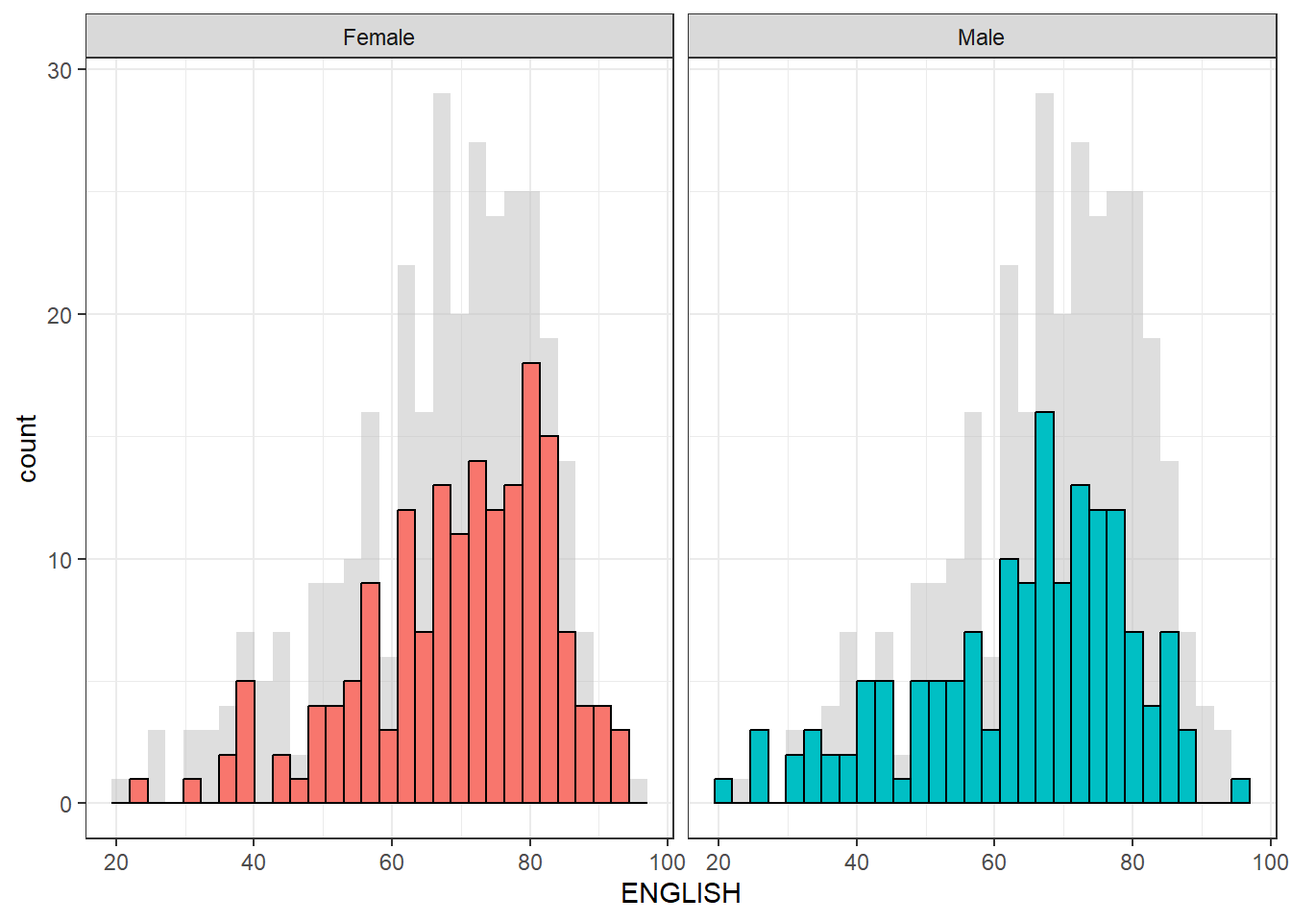
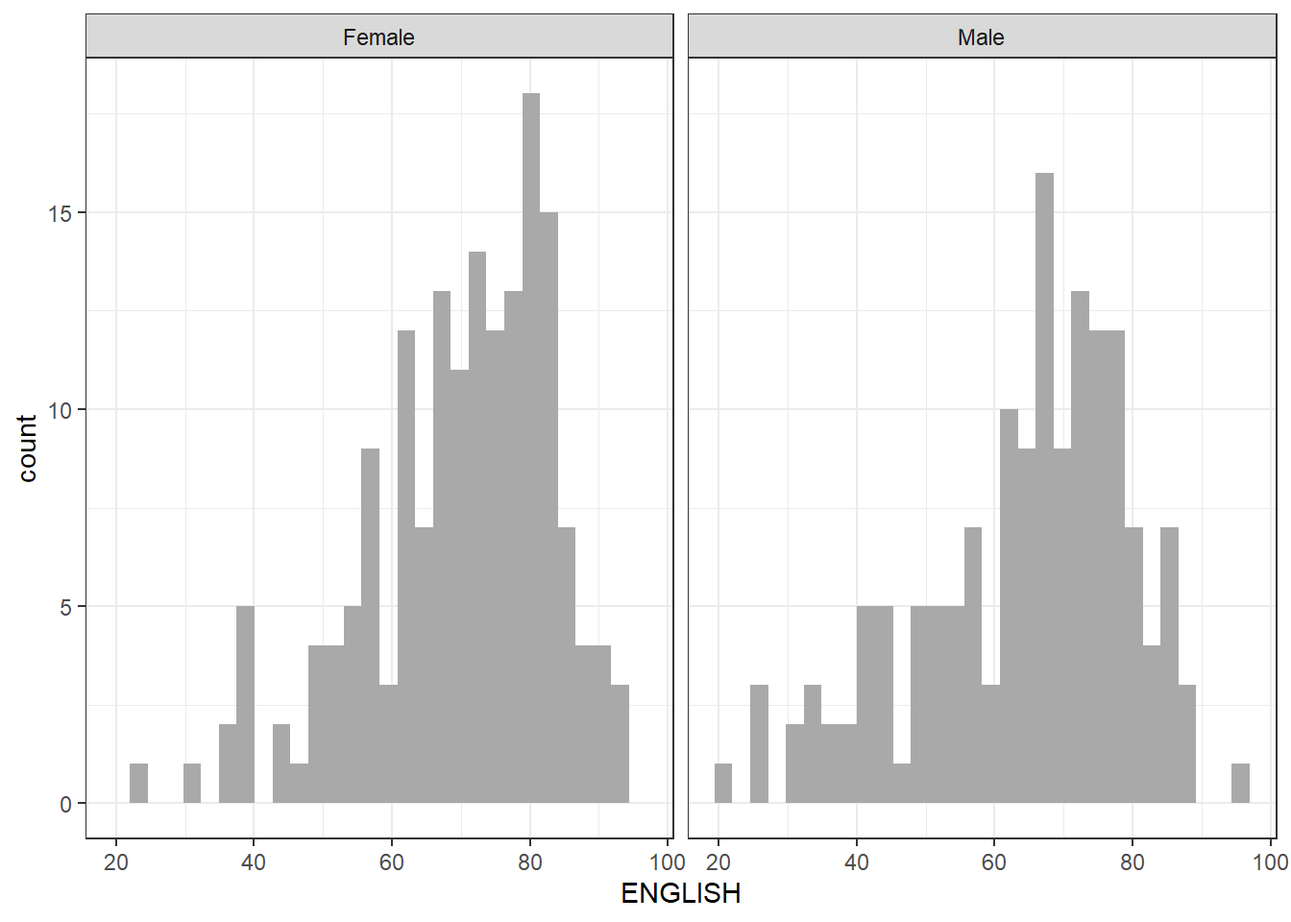
Commit In-class Ex01 completed

diff --git a/_site/In-class_Ex/In-class_Ex01/In-class_Ex01.html b/_site/In-class_Ex/In-class_Ex01/In-class_Ex01.html
@@ -6,6 +6,8 @@
 
 <meta name="viewport" content="width=device-width, initial-scale=1.0, user-scalable=yes">
 
+<meta name="author" content="Shaun Tan">
+<meta name="dcterms.date" content="2023-04-16">
 
 <title>ISSS608-VAA - In-class_Ex01</title>
 <style>
@@ -230,7 +232,19 @@ code span.wa { color: #60a0b0; font-weight: bold; font-style: italic; } /* Warni
 
 <div class="quarto-title-meta">
 
+    <div>
+    <div class="quarto-title-meta-heading">Author</div>
+    <div class="quarto-title-meta-contents">
+             <p>Shaun Tan </p>
+          </div>
+  </div>
     
+    <div>
+    <div class="quarto-title-meta-heading">Published</div>
+    <div class="quarto-title-meta-contents">
+      <p class="date">April 16, 2023</p>
+    </div>
+  </div>
   
     
   </div>
@@ -244,57 +258,41 @@ code span.wa { color: #60a0b0; font-weight: bold; font-style: italic; } /* Warni
 <h2 class="anchored" data-anchor-id="installing-and-launching-r-packages">Installing and launching R packages</h2>
 <p>The code chunk below uses p_load() of pacman package to check if tidyverse packages are installed on the computer. If they are, then they will be launched into R.</p>
 <div class="cell">
+<details>
+<summary>Code</summary>
 <div class="sourceCode cell-code" id="cb1"><pre class="sourceCode r code-with-copy"><code class="sourceCode r"><span id="cb1-1"><a href="#cb1-1" aria-hidden="true" tabindex="-1"></a>pacman<span class="sc">::</span><span class="fu">p_load</span>(tidyverse)</span></code><button title="Copy to Clipboard" class="code-copy-button"><i class="bi"></i></button></pre></div>
+</details>
 </div>
 </section>
 <section id="importing-the-data" class="level2">
 <h2 class="anchored" data-anchor-id="importing-the-data">Importing the data</h2>
 <div class="cell">
+<details>
+<summary>Code</summary>
 <div class="sourceCode cell-code" id="cb2"><pre class="sourceCode r code-with-copy"><code class="sourceCode r"><span id="cb2-1"><a href="#cb2-1" aria-hidden="true" tabindex="-1"></a>exam_data <span class="ot">&lt;-</span> <span class="fu">read_csv</span>(<span class="st">"data/Exam_data.csv"</span>)</span></code><button title="Copy to Clipboard" class="code-copy-button"><i class="bi"></i></button></pre></div>
-<div class="cell-output cell-output-stderr">
-<pre><code>Rows: 322 Columns: 7
-── Column specification ────────────────────────────────────────────────────────
-Delimiter: ","
-chr (4): ID, CLASS, GENDER, RACE
-dbl (3): ENGLISH, MATHS, SCIENCE
-
-ℹ Use `spec()` to retrieve the full column specification for this data.
-ℹ Specify the column types or set `show_col_types = FALSE` to quiet this message.</code></pre>
-</div>
+</details>
 </div>
 </section>
 </section>
 <section id="plotting-a-simple-horizontal-bar-chart" class="level1">
 <h1>Plotting a simple horizontal bar chart</h1>
 <div class="cell">
-<div class="sourceCode cell-code" id="cb4"><pre class="sourceCode r code-with-copy"><code class="sourceCode r"><span id="cb4-1"><a href="#cb4-1" aria-hidden="true" tabindex="-1"></a><span class="fu">ggplot</span>(<span class="at">data =</span> exam_data,</span>
-<span id="cb4-2"><a href="#cb4-2" aria-hidden="true" tabindex="-1"></a>       <span class="fu">aes</span>(<span class="at">x =</span> RACE)) <span class="sc">+</span> </span>
-<span id="cb4-3"><a href="#cb4-3" aria-hidden="true" tabindex="-1"></a>  <span class="fu">geom_bar</span>() <span class="sc">+</span></span>
-<span id="cb4-4"><a href="#cb4-4" aria-hidden="true" tabindex="-1"></a>  <span class="fu">coord_flip</span>() <span class="sc">+</span></span>
-<span id="cb4-5"><a href="#cb4-5" aria-hidden="true" tabindex="-1"></a>  <span class="fu">theme_minimal</span>() <span class="sc">+</span></span>
-<span id="cb4-6"><a href="#cb4-6" aria-hidden="true" tabindex="-1"></a>  <span class="fu">theme</span>(</span>
-<span id="cb4-7"><a href="#cb4-7" aria-hidden="true" tabindex="-1"></a>    <span class="at">panel.background =</span> <span class="fu">element_rect</span>(<span class="at">fill =</span> <span class="st">"lightblue"</span>, <span class="at">colour =</span> <span class="st">"lightblue"</span>, </span>
-<span id="cb4-8"><a href="#cb4-8" aria-hidden="true" tabindex="-1"></a>                                    <span class="at">size =</span> <span class="fl">0.5</span>, <span class="at">linetype =</span> <span class="st">"solid"</span>),</span>
-<span id="cb4-9"><a href="#cb4-9" aria-hidden="true" tabindex="-1"></a>    <span class="at">panel.grid.major =</span> <span class="fu">element_line</span>(<span class="at">size =</span> <span class="fl">0.5</span>, <span class="at">linetype =</span> <span class="st">'solid'</span>, <span class="at">colour =</span> <span class="st">"white"</span>), </span>
-<span id="cb4-10"><a href="#cb4-10" aria-hidden="true" tabindex="-1"></a>    <span class="at">panel.grid.minor =</span> <span class="fu">element_line</span>(<span class="at">size =</span> <span class="fl">0.25</span>, <span class="at">linetype =</span> <span class="st">'solid'</span>, <span class="at">colour =</span> <span class="st">"white"</span>))</span></code><button title="Copy to Clipboard" class="code-copy-button"><i class="bi"></i></button></pre></div>
-<div class="cell-output cell-output-stderr">
-<pre><code>Warning: The `size` argument of `element_rect()` is deprecated as of ggplot2 3.4.0.
-ℹ Please use the `linewidth` argument instead.</code></pre>
-</div>
-<div class="cell-output cell-output-stderr">
-<pre><code>Warning: The `size` argument of `element_line()` is deprecated as of ggplot2 3.4.0.
-ℹ Please use the `linewidth` argument instead.</code></pre>
-</div>
+<details>
+<summary>Code</summary>
+<div class="sourceCode cell-code" id="cb3"><pre class="sourceCode r code-with-copy"><code class="sourceCode r"><span id="cb3-1"><a href="#cb3-1" aria-hidden="true" tabindex="-1"></a><span class="fu">ggplot</span>(<span class="at">data =</span> exam_data,</span>
+<span id="cb3-2"><a href="#cb3-2" aria-hidden="true" tabindex="-1"></a>       <span class="fu">aes</span>(<span class="at">x =</span> RACE)) <span class="sc">+</span> </span>
+<span id="cb3-3"><a href="#cb3-3" aria-hidden="true" tabindex="-1"></a>  <span class="fu">geom_bar</span>() <span class="sc">+</span></span>
+<span id="cb3-4"><a href="#cb3-4" aria-hidden="true" tabindex="-1"></a>  <span class="fu">coord_flip</span>() <span class="sc">+</span></span>
+<span id="cb3-5"><a href="#cb3-5" aria-hidden="true" tabindex="-1"></a>  <span class="fu">theme_minimal</span>() <span class="sc">+</span></span>
+<span id="cb3-6"><a href="#cb3-6" aria-hidden="true" tabindex="-1"></a>  <span class="fu">theme</span>(</span>
+<span id="cb3-7"><a href="#cb3-7" aria-hidden="true" tabindex="-1"></a>    <span class="at">panel.background =</span> <span class="fu">element_rect</span>(<span class="at">fill =</span> <span class="st">"lightblue"</span>, <span class="at">colour =</span> <span class="st">"lightblue"</span>, </span>
+<span id="cb3-8"><a href="#cb3-8" aria-hidden="true" tabindex="-1"></a>                                    <span class="at">size =</span> <span class="fl">0.5</span>, <span class="at">linetype =</span> <span class="st">"solid"</span>),</span>
+<span id="cb3-9"><a href="#cb3-9" aria-hidden="true" tabindex="-1"></a>    <span class="at">panel.grid.major =</span> <span class="fu">element_line</span>(<span class="at">size =</span> <span class="fl">0.5</span>, <span class="at">linetype =</span> <span class="st">'solid'</span>, <span class="at">colour =</span> <span class="st">"white"</span>), </span>
+<span id="cb3-10"><a href="#cb3-10" aria-hidden="true" tabindex="-1"></a>    <span class="at">panel.grid.minor =</span> <span class="fu">element_line</span>(<span class="at">size =</span> <span class="fl">0.25</span>, <span class="at">linetype =</span> <span class="st">'solid'</span>, <span class="at">colour =</span> <span class="st">"white"</span>)) <span class="sc">+</span></span>
+<span id="cb3-11"><a href="#cb3-11" aria-hidden="true" tabindex="-1"></a>  <span class="fu">labs</span>(<span class="at">title =</span> <span class="st">"Horizontal Histogram of Exam Data"</span>)</span></code><button title="Copy to Clipboard" class="code-copy-button"><i class="bi"></i></button></pre></div>
+</details>
 <div class="cell-output-display">
 <p><img src="In-class_Ex01_files/figure-html/unnamed-chunk-3-1.png" class="img-fluid" width="672"></p>
-</div>
-<div class="sourceCode cell-code" id="cb7"><pre class="sourceCode r code-with-copy"><code class="sourceCode r"><span id="cb7-1"><a href="#cb7-1" aria-hidden="true" tabindex="-1"></a>  <span class="fu">labs</span>(<span class="at">title =</span> <span class="st">"Horizontal Histogram of Exam Data"</span>)</span></code><button title="Copy to Clipboard" class="code-copy-button"><i class="bi"></i></button></pre></div>
-<div class="cell-output cell-output-stdout">
-<pre><code>$title
-[1] "Horizontal Histogram of Exam Data"
-
-attr(,"class")
-[1] "labels"</code></pre>
 </div>
 </div>
 </section>
@@ -303,10 +301,13 @@ attr(,"class")
 <section id="the-original-design" class="level2">
 <h2 class="anchored" data-anchor-id="the-original-design">The original design</h2>
 <div class="cell">
-<div class="sourceCode cell-code" id="cb9"><pre class="sourceCode r code-with-copy"><code class="sourceCode r"><span id="cb9-1"><a href="#cb9-1" aria-hidden="true" tabindex="-1"></a><span class="fu">ggplot</span>(<span class="at">data =</span> exam_data,</span>
-<span id="cb9-2"><a href="#cb9-2" aria-hidden="true" tabindex="-1"></a>       <span class="fu">aes</span>(<span class="at">x =</span> RACE)) <span class="sc">+</span> </span>
-<span id="cb9-3"><a href="#cb9-3" aria-hidden="true" tabindex="-1"></a>  <span class="fu">geom_bar</span>() <span class="sc">+</span></span>
-<span id="cb9-4"><a href="#cb9-4" aria-hidden="true" tabindex="-1"></a>  <span class="fu">labs</span>(<span class="at">x =</span> <span class="st">"Race"</span>, <span class="at">y =</span> <span class="st">"Count"</span>, <span class="at">title =</span> <span class="st">"Histogram of Exam Data"</span>)</span></code><button title="Copy to Clipboard" class="code-copy-button"><i class="bi"></i></button></pre></div>
+<details>
+<summary>Code</summary>
+<div class="sourceCode cell-code" id="cb4"><pre class="sourceCode r code-with-copy"><code class="sourceCode r"><span id="cb4-1"><a href="#cb4-1" aria-hidden="true" tabindex="-1"></a><span class="fu">ggplot</span>(<span class="at">data =</span> exam_data,</span>
+<span id="cb4-2"><a href="#cb4-2" aria-hidden="true" tabindex="-1"></a>       <span class="fu">aes</span>(<span class="at">x =</span> RACE)) <span class="sc">+</span> </span>
+<span id="cb4-3"><a href="#cb4-3" aria-hidden="true" tabindex="-1"></a>  <span class="fu">geom_bar</span>() <span class="sc">+</span></span>
+<span id="cb4-4"><a href="#cb4-4" aria-hidden="true" tabindex="-1"></a>  <span class="fu">labs</span>(<span class="at">x =</span> <span class="st">"Race"</span>, <span class="at">y =</span> <span class="st">"Count"</span>, <span class="at">title =</span> <span class="st">"Histogram of Exam Data"</span>)</span></code><button title="Copy to Clipboard" class="code-copy-button"><i class="bi"></i></button></pre></div>
+</details>
 <div class="cell-output-display">
 <p><img src="In-class_Ex01_files/figure-html/unnamed-chunk-4-1.png" class="img-fluid" width="672"></p>
 </div>
@@ -321,22 +322,21 @@ attr(,"class")
 <section id="the-makeover-design" class="level2">
 <h2 class="anchored" data-anchor-id="the-makeover-design">The makeover design</h2>
 <div class="cell">
-<div class="sourceCode cell-code" id="cb10"><pre class="sourceCode r code-with-copy"><code class="sourceCode r"><span id="cb10-1"><a href="#cb10-1" aria-hidden="true" tabindex="-1"></a><span class="fu">ggplot</span>(<span class="at">data =</span> exam_data,</span>
-<span id="cb10-2"><a href="#cb10-2" aria-hidden="true" tabindex="-1"></a>       <span class="fu">aes</span>(<span class="at">x=</span><span class="fu">reorder</span>(RACE,RACE,</span>
-<span id="cb10-3"><a href="#cb10-3" aria-hidden="true" tabindex="-1"></a>                     <span class="cf">function</span>(x)<span class="sc">-</span><span class="fu">length</span>(x)), <span class="at">fill =</span> RACE)) <span class="sc">+</span> </span>
-<span id="cb10-4"><a href="#cb10-4" aria-hidden="true" tabindex="-1"></a>  <span class="fu">geom_bar</span>() <span class="sc">+</span></span>
-<span id="cb10-5"><a href="#cb10-5" aria-hidden="true" tabindex="-1"></a>  <span class="fu">ylim</span>(<span class="dv">0</span>,<span class="dv">220</span>) <span class="sc">+</span></span>
-<span id="cb10-6"><a href="#cb10-6" aria-hidden="true" tabindex="-1"></a>  <span class="fu">geom_text</span>(<span class="at">stat=</span><span class="st">"count"</span>, </span>
-<span id="cb10-7"><a href="#cb10-7" aria-hidden="true" tabindex="-1"></a>      <span class="fu">aes</span>(<span class="at">label=</span><span class="fu">paste0</span>(..count.., <span class="st">", "</span>, </span>
-<span id="cb10-8"><a href="#cb10-8" aria-hidden="true" tabindex="-1"></a>      <span class="fu">round</span>(..count..<span class="sc">/</span><span class="fu">sum</span>(..count..)<span class="sc">*</span><span class="dv">100</span>, <span class="dv">1</span>), <span class="st">"%"</span>)),</span>
-<span id="cb10-9"><a href="#cb10-9" aria-hidden="true" tabindex="-1"></a>      <span class="at">vjust=</span><span class="sc">-</span><span class="dv">1</span>) <span class="sc">+</span></span>
-<span id="cb10-10"><a href="#cb10-10" aria-hidden="true" tabindex="-1"></a>  <span class="fu">labs</span>(<span class="at">x =</span> <span class="st">"Race"</span>, <span class="at">y =</span> <span class="st">"No. of</span><span class="sc">\n</span><span class="st">Pupils"</span>) <span class="sc">+</span></span>
-<span id="cb10-11"><a href="#cb10-11" aria-hidden="true" tabindex="-1"></a>  <span class="fu">theme_grey</span>() <span class="sc">+</span></span>
-<span id="cb10-12"><a href="#cb10-12" aria-hidden="true" tabindex="-1"></a>  <span class="fu">theme</span>(<span class="at">axis.title.y=</span><span class="fu">element_text</span>(<span class="at">angle =</span> <span class="dv">0</span>))</span></code><button title="Copy to Clipboard" class="code-copy-button"><i class="bi"></i></button></pre></div>
-<div class="cell-output cell-output-stderr">
-<pre><code>Warning: The dot-dot notation (`..count..`) was deprecated in ggplot2 3.4.0.
-ℹ Please use `after_stat(count)` instead.</code></pre>
-</div>
+<details>
+<summary>Code</summary>
+<div class="sourceCode cell-code" id="cb5"><pre class="sourceCode r code-with-copy"><code class="sourceCode r"><span id="cb5-1"><a href="#cb5-1" aria-hidden="true" tabindex="-1"></a><span class="fu">ggplot</span>(<span class="at">data =</span> exam_data,</span>
+<span id="cb5-2"><a href="#cb5-2" aria-hidden="true" tabindex="-1"></a>       <span class="fu">aes</span>(<span class="at">x=</span><span class="fu">reorder</span>(RACE,RACE,</span>
+<span id="cb5-3"><a href="#cb5-3" aria-hidden="true" tabindex="-1"></a>                     <span class="cf">function</span>(x)<span class="sc">-</span><span class="fu">length</span>(x)), <span class="at">fill =</span> RACE)) <span class="sc">+</span> </span>
+<span id="cb5-4"><a href="#cb5-4" aria-hidden="true" tabindex="-1"></a>  <span class="fu">geom_bar</span>() <span class="sc">+</span></span>
+<span id="cb5-5"><a href="#cb5-5" aria-hidden="true" tabindex="-1"></a>  <span class="fu">ylim</span>(<span class="dv">0</span>,<span class="dv">220</span>) <span class="sc">+</span></span>
+<span id="cb5-6"><a href="#cb5-6" aria-hidden="true" tabindex="-1"></a>  <span class="fu">geom_text</span>(<span class="at">stat=</span><span class="st">"count"</span>, </span>
+<span id="cb5-7"><a href="#cb5-7" aria-hidden="true" tabindex="-1"></a>      <span class="fu">aes</span>(<span class="at">label=</span><span class="fu">paste0</span>(..count.., <span class="st">", "</span>, </span>
+<span id="cb5-8"><a href="#cb5-8" aria-hidden="true" tabindex="-1"></a>      <span class="fu">round</span>(..count..<span class="sc">/</span><span class="fu">sum</span>(..count..)<span class="sc">*</span><span class="dv">100</span>, <span class="dv">1</span>), <span class="st">"%"</span>)),</span>
+<span id="cb5-9"><a href="#cb5-9" aria-hidden="true" tabindex="-1"></a>      <span class="at">vjust=</span><span class="sc">-</span><span class="dv">1</span>) <span class="sc">+</span></span>
+<span id="cb5-10"><a href="#cb5-10" aria-hidden="true" tabindex="-1"></a>  <span class="fu">labs</span>(<span class="at">x =</span> <span class="st">"Race"</span>, <span class="at">y =</span> <span class="st">"No. of</span><span class="sc">\n</span><span class="st">Pupils"</span>) <span class="sc">+</span></span>
+<span id="cb5-11"><a href="#cb5-11" aria-hidden="true" tabindex="-1"></a>  <span class="fu">theme_grey</span>() <span class="sc">+</span></span>
+<span id="cb5-12"><a href="#cb5-12" aria-hidden="true" tabindex="-1"></a>  <span class="fu">theme</span>(<span class="at">axis.title.y=</span><span class="fu">element_text</span>(<span class="at">angle =</span> <span class="dv">0</span>))</span></code><button title="Copy to Clipboard" class="code-copy-button"><i class="bi"></i></button></pre></div>
+</details>
 <div class="cell-output-display">
 <p><img src="In-class_Ex01_files/figure-html/unnamed-chunk-5-1.png" class="img-fluid" width="672"></p>
 </div>
@@ -348,11 +348,14 @@ attr(,"class")
 <section id="the-original-design-1" class="level2">
 <h2 class="anchored" data-anchor-id="the-original-design-1">The original design</h2>
 <div class="cell">
-<div class="sourceCode cell-code" id="cb12"><pre class="sourceCode r code-with-copy"><code class="sourceCode r"><span id="cb12-1"><a href="#cb12-1" aria-hidden="true" tabindex="-1"></a><span class="fu">ggplot</span>(<span class="at">data =</span> exam_data,</span>
-<span id="cb12-2"><a href="#cb12-2" aria-hidden="true" tabindex="-1"></a>       <span class="fu">aes</span>(<span class="at">x =</span> MATHS)) <span class="sc">+</span> </span>
-<span id="cb12-3"><a href="#cb12-3" aria-hidden="true" tabindex="-1"></a>  <span class="fu">geom_histogram</span>(<span class="at">col =</span> <span class="st">"#1b98e0"</span>,</span>
-<span id="cb12-4"><a href="#cb12-4" aria-hidden="true" tabindex="-1"></a>                 <span class="at">bins=</span><span class="dv">20</span>) <span class="sc">+</span></span>
-<span id="cb12-5"><a href="#cb12-5" aria-hidden="true" tabindex="-1"></a>  <span class="fu">ylim</span>(<span class="dv">0</span>,<span class="dv">45</span>)</span></code><button title="Copy to Clipboard" class="code-copy-button"><i class="bi"></i></button></pre></div>
+<details>
+<summary>Code</summary>
+<div class="sourceCode cell-code" id="cb6"><pre class="sourceCode r code-with-copy"><code class="sourceCode r"><span id="cb6-1"><a href="#cb6-1" aria-hidden="true" tabindex="-1"></a><span class="fu">ggplot</span>(<span class="at">data =</span> exam_data,</span>
+<span id="cb6-2"><a href="#cb6-2" aria-hidden="true" tabindex="-1"></a>       <span class="fu">aes</span>(<span class="at">x =</span> MATHS)) <span class="sc">+</span> </span>
+<span id="cb6-3"><a href="#cb6-3" aria-hidden="true" tabindex="-1"></a>  <span class="fu">geom_histogram</span>(<span class="at">col =</span> <span class="st">"#1b98e0"</span>,</span>
+<span id="cb6-4"><a href="#cb6-4" aria-hidden="true" tabindex="-1"></a>                 <span class="at">bins=</span><span class="dv">20</span>) <span class="sc">+</span></span>
+<span id="cb6-5"><a href="#cb6-5" aria-hidden="true" tabindex="-1"></a>  <span class="fu">ylim</span>(<span class="dv">0</span>,<span class="dv">45</span>)</span></code><button title="Copy to Clipboard" class="code-copy-button"><i class="bi"></i></button></pre></div>
+</details>
 <div class="cell-output-display">
 <p><img src="In-class_Ex01_files/figure-html/unnamed-chunk-6-1.png" class="img-fluid" width="672"></p>
 </div>
@@ -361,27 +364,30 @@ attr(,"class")
 <section id="the-makeover-design-1" class="level2">
 <h2 class="anchored" data-anchor-id="the-makeover-design-1">The makeover design</h2>
 <div class="cell">
-<div class="sourceCode cell-code" id="cb13"><pre class="sourceCode r code-with-copy"><code class="sourceCode r"><span id="cb13-1"><a href="#cb13-1" aria-hidden="true" tabindex="-1"></a><span class="fu">ggplot</span>(<span class="at">data=</span>exam_data, </span>
-<span id="cb13-2"><a href="#cb13-2" aria-hidden="true" tabindex="-1"></a>       <span class="fu">aes</span>(<span class="at">x=</span> MATHS)) <span class="sc">+</span></span>
-<span id="cb13-3"><a href="#cb13-3" aria-hidden="true" tabindex="-1"></a>  <span class="fu">geom_histogram</span>(<span class="at">bins=</span><span class="dv">20</span>, </span>
-<span id="cb13-4"><a href="#cb13-4" aria-hidden="true" tabindex="-1"></a>                 <span class="at">color=</span><span class="st">"black"</span>, </span>
-<span id="cb13-5"><a href="#cb13-5" aria-hidden="true" tabindex="-1"></a>                 <span class="at">fill=</span><span class="st">"light blue"</span>) <span class="sc">+</span></span>
-<span id="cb13-6"><a href="#cb13-6" aria-hidden="true" tabindex="-1"></a>  <span class="fu">geom_vline</span>(<span class="fu">aes</span>(<span class="at">xintercept=</span><span class="fu">mean</span>(MATHS, <span class="at">na.rm=</span>T)),</span>
-<span id="cb13-7"><a href="#cb13-7" aria-hidden="true" tabindex="-1"></a>             <span class="at">color=</span><span class="st">"red"</span>, </span>
-<span id="cb13-8"><a href="#cb13-8" aria-hidden="true" tabindex="-1"></a>             <span class="at">linetype=</span><span class="st">"dashed"</span>, </span>
-<span id="cb13-9"><a href="#cb13-9" aria-hidden="true" tabindex="-1"></a>             <span class="at">size=</span><span class="dv">1</span>) <span class="sc">+</span></span>
-<span id="cb13-10"><a href="#cb13-10" aria-hidden="true" tabindex="-1"></a>  <span class="fu">geom_vline</span>(<span class="fu">aes</span>(<span class="at">xintercept=</span><span class="fu">median</span>(MATHS, <span class="at">na.rm=</span>T)),</span>
-<span id="cb13-11"><a href="#cb13-11" aria-hidden="true" tabindex="-1"></a>             <span class="at">color=</span><span class="st">"grey30"</span>,</span>
-<span id="cb13-12"><a href="#cb13-12" aria-hidden="true" tabindex="-1"></a>             <span class="at">linetype=</span><span class="st">"dashed"</span>, </span>
-<span id="cb13-13"><a href="#cb13-13" aria-hidden="true" tabindex="-1"></a>             <span class="at">size=</span><span class="dv">1</span>)</span></code><button title="Copy to Clipboard" class="code-copy-button"><i class="bi"></i></button></pre></div>
-<div class="cell-output cell-output-stderr">
-<pre><code>Warning: Using `size` aesthetic for lines was deprecated in ggplot2 3.4.0.
-ℹ Please use `linewidth` instead.</code></pre>
-</div>
+<details>
+<summary>Code</summary>
+<div class="sourceCode cell-code" id="cb7"><pre class="sourceCode r code-with-copy"><code class="sourceCode r"><span id="cb7-1"><a href="#cb7-1" aria-hidden="true" tabindex="-1"></a><span class="fu">ggplot</span>(<span class="at">data=</span>exam_data, </span>
+<span id="cb7-2"><a href="#cb7-2" aria-hidden="true" tabindex="-1"></a>       <span class="fu">aes</span>(<span class="at">x=</span> MATHS)) <span class="sc">+</span></span>
+<span id="cb7-3"><a href="#cb7-3" aria-hidden="true" tabindex="-1"></a>  <span class="fu">geom_histogram</span>(<span class="at">bins=</span><span class="dv">20</span>, </span>
+<span id="cb7-4"><a href="#cb7-4" aria-hidden="true" tabindex="-1"></a>                 <span class="at">color=</span><span class="st">"black"</span>, </span>
+<span id="cb7-5"><a href="#cb7-5" aria-hidden="true" tabindex="-1"></a>                 <span class="at">fill=</span><span class="st">"light blue"</span>) <span class="sc">+</span></span>
+<span id="cb7-6"><a href="#cb7-6" aria-hidden="true" tabindex="-1"></a>  <span class="fu">geom_vline</span>(<span class="fu">aes</span>(<span class="at">xintercept=</span><span class="fu">mean</span>(MATHS, <span class="at">na.rm=</span>T)),</span>
+<span id="cb7-7"><a href="#cb7-7" aria-hidden="true" tabindex="-1"></a>             <span class="at">color=</span><span class="st">"red"</span>, </span>
+<span id="cb7-8"><a href="#cb7-8" aria-hidden="true" tabindex="-1"></a>             <span class="at">linetype=</span><span class="st">"dashed"</span>, </span>
+<span id="cb7-9"><a href="#cb7-9" aria-hidden="true" tabindex="-1"></a>             <span class="at">size=</span><span class="dv">1</span>, <span class="at">label =</span> <span class="st">"mean"</span>) <span class="sc">+</span></span>
+<span id="cb7-10"><a href="#cb7-10" aria-hidden="true" tabindex="-1"></a>  <span class="fu">geom_vline</span>(<span class="fu">aes</span>(<span class="at">xintercept=</span><span class="fu">median</span>(MATHS, <span class="at">na.rm=</span>T)),</span>
+<span id="cb7-11"><a href="#cb7-11" aria-hidden="true" tabindex="-1"></a>             <span class="at">color=</span><span class="st">"grey30"</span>,</span>
+<span id="cb7-12"><a href="#cb7-12" aria-hidden="true" tabindex="-1"></a>             <span class="at">linetype=</span><span class="st">"dashed"</span>, </span>
+<span id="cb7-13"><a href="#cb7-13" aria-hidden="true" tabindex="-1"></a>             <span class="at">size=</span><span class="dv">1</span>) <span class="sc">+</span> <span class="fu">annotate</span>(<span class="st">"text"</span>, <span class="at">x=</span><span class="dv">75</span>, <span class="at">y=</span><span class="dv">40</span>, <span class="at">label=</span><span class="st">"Median"</span>, <span class="at">angle=</span><span class="dv">90</span>, <span class="at">size=</span><span class="dv">3</span>, <span class="at">color=</span><span class="st">"grey30"</span>) <span class="sc">+</span></span>
+<span id="cb7-14"><a href="#cb7-14" aria-hidden="true" tabindex="-1"></a>             <span class="fu">annotate</span>(<span class="st">"text"</span>, <span class="at">x=</span><span class="dv">68</span>, <span class="at">y=</span><span class="dv">40</span>, <span class="at">label=</span><span class="st">"Mean"</span>, <span class="at">angle=</span><span class="dv">90</span>, <span class="at">size=</span><span class="dv">3</span>, <span class="at">color=</span><span class="st">"red"</span>)</span></code><button title="Copy to Clipboard" class="code-copy-button"><i class="bi"></i></button></pre></div>
+</details>
 <div class="cell-output-display">
 <p><img src="In-class_Ex01_files/figure-html/unnamed-chunk-7-1.png" class="img-fluid" width="672"></p>
 </div>
-<div class="sourceCode cell-code" id="cb15"><pre class="sourceCode r code-with-copy"><code class="sourceCode r"><span id="cb15-1"><a href="#cb15-1" aria-hidden="true" tabindex="-1"></a>  <span class="fu">ylim</span>(<span class="dv">0</span>,<span class="dv">45</span>)</span></code><button title="Copy to Clipboard" class="code-copy-button"><i class="bi"></i></button></pre></div>
+<details>
+<summary>Code</summary>
+<div class="sourceCode cell-code" id="cb8"><pre class="sourceCode r code-with-copy"><code class="sourceCode r"><span id="cb8-1"><a href="#cb8-1" aria-hidden="true" tabindex="-1"></a>  <span class="fu">ylim</span>(<span class="dv">0</span>,<span class="dv">45</span>)</span></code><button title="Copy to Clipboard" class="code-copy-button"><i class="bi"></i></button></pre></div>
+</details>
 <div class="cell-output cell-output-stdout">
 <pre><code>&lt;ScaleContinuousPosition&gt;
  Range:  
@@ -394,29 +400,37 @@ attr(,"class")
 <h1>Designing Data-drive Graphics for Analysis III</h1>
 <section id="the-original-design-2" class="level2">
 <h2 class="anchored" data-anchor-id="the-original-design-2">The original design</h2>
+<div class="cell">
+<details>
+<summary>Code</summary>
+<div class="sourceCode cell-code" id="cb10"><pre class="sourceCode r code-with-copy"><code class="sourceCode r"><span id="cb10-1"><a href="#cb10-1" aria-hidden="true" tabindex="-1"></a><span class="fu">ggplot</span>(<span class="at">data=</span>exam_data, <span class="fu">aes</span>(<span class="at">x =</span> ENGLISH)) <span class="sc">+</span></span>
+<span id="cb10-2"><a href="#cb10-2" aria-hidden="true" tabindex="-1"></a>  <span class="fu">geom_histogram</span>(<span class="at">data =</span> exam_data, <span class="at">fill =</span> <span class="st">"darkgrey"</span>) <span class="sc">+</span></span>
+<span id="cb10-3"><a href="#cb10-3" aria-hidden="true" tabindex="-1"></a>  <span class="fu">facet_wrap</span>(<span class="sc">~</span> GENDER) <span class="sc">+</span></span>
+<span id="cb10-4"><a href="#cb10-4" aria-hidden="true" tabindex="-1"></a>  <span class="fu">guides</span>(<span class="at">fill =</span> <span class="cn">FALSE</span>) <span class="sc">+</span>  </span>
+<span id="cb10-5"><a href="#cb10-5" aria-hidden="true" tabindex="-1"></a>  <span class="fu">theme_bw</span>()</span></code><button title="Copy to Clipboard" class="code-copy-button"><i class="bi"></i></button></pre></div>
+</details>
+<div class="cell-output-display">
+<p><img src="In-class_Ex01_files/figure-html/unnamed-chunk-8-1.png" class="img-fluid" width="672"></p>
+</div>
+</div>
 </section>
 <section id="the-makeover-design-2" class="level2">
 <h2 class="anchored" data-anchor-id="the-makeover-design-2">The makeover design</h2>
 <div class="cell">
-<div class="sourceCode cell-code" id="cb17"><pre class="sourceCode r code-with-copy"><code class="sourceCode r"><span id="cb17-1"><a href="#cb17-1" aria-hidden="true" tabindex="-1"></a>d <span class="ot">&lt;-</span> exam_data   </span>
-<span id="cb17-2"><a href="#cb17-2" aria-hidden="true" tabindex="-1"></a>d_bg <span class="ot">&lt;-</span> d[, <span class="sc">-</span><span class="dv">3</span>]  </span>
-<span id="cb17-3"><a href="#cb17-3" aria-hidden="true" tabindex="-1"></a></span>
-<span id="cb17-4"><a href="#cb17-4" aria-hidden="true" tabindex="-1"></a><span class="fu">ggplot</span>(d, <span class="fu">aes</span>(<span class="at">x =</span> ENGLISH, <span class="at">fill =</span> GENDER)) <span class="sc">+</span></span>
-<span id="cb17-5"><a href="#cb17-5" aria-hidden="true" tabindex="-1"></a>  <span class="fu">geom_histogram</span>(<span class="at">data =</span> d_bg, <span class="at">fill =</span> <span class="st">"grey"</span>, <span class="at">alpha =</span> .<span class="dv">5</span>) <span class="sc">+</span></span>
-<span id="cb17-6"><a href="#cb17-6" aria-hidden="true" tabindex="-1"></a>  <span class="fu">geom_histogram</span>(<span class="at">colour =</span> <span class="st">"black"</span>) <span class="sc">+</span></span>
-<span id="cb17-7"><a href="#cb17-7" aria-hidden="true" tabindex="-1"></a>  <span class="fu">facet_wrap</span>(<span class="sc">~</span> GENDER) <span class="sc">+</span></span>
-<span id="cb17-8"><a href="#cb17-8" aria-hidden="true" tabindex="-1"></a>  <span class="fu">guides</span>(<span class="at">fill =</span> <span class="cn">FALSE</span>) <span class="sc">+</span>  </span>
-<span id="cb17-9"><a href="#cb17-9" aria-hidden="true" tabindex="-1"></a>  <span class="fu">theme_bw</span>()</span></code><button title="Copy to Clipboard" class="code-copy-button"><i class="bi"></i></button></pre></div>
-<div class="cell-output cell-output-stderr">
-<pre><code>Warning: The `&lt;scale&gt;` argument of `guides()` cannot be `FALSE`. Use "none" instead as
-of ggplot2 3.3.4.</code></pre>
-</div>
-<div class="cell-output cell-output-stderr">
-<pre><code>`stat_bin()` using `bins = 30`. Pick better value with `binwidth`.
-`stat_bin()` using `bins = 30`. Pick better value with `binwidth`.</code></pre>
-</div>
+<details>
+<summary>Code</summary>
+<div class="sourceCode cell-code" id="cb11"><pre class="sourceCode r code-with-copy"><code class="sourceCode r"><span id="cb11-1"><a href="#cb11-1" aria-hidden="true" tabindex="-1"></a>d <span class="ot">&lt;-</span> exam_data   </span>
+<span id="cb11-2"><a href="#cb11-2" aria-hidden="true" tabindex="-1"></a>d_bg <span class="ot">&lt;-</span> d[, <span class="sc">-</span><span class="dv">3</span>]  </span>
+<span id="cb11-3"><a href="#cb11-3" aria-hidden="true" tabindex="-1"></a></span>
+<span id="cb11-4"><a href="#cb11-4" aria-hidden="true" tabindex="-1"></a><span class="fu">ggplot</span>(d, <span class="fu">aes</span>(<span class="at">x =</span> ENGLISH, <span class="at">fill =</span> GENDER)) <span class="sc">+</span></span>
+<span id="cb11-5"><a href="#cb11-5" aria-hidden="true" tabindex="-1"></a>  <span class="fu">geom_histogram</span>(<span class="at">data =</span> d_bg, <span class="at">fill =</span> <span class="st">"grey"</span>, <span class="at">alpha =</span> .<span class="dv">5</span>) <span class="sc">+</span></span>
+<span id="cb11-6"><a href="#cb11-6" aria-hidden="true" tabindex="-1"></a>  <span class="fu">geom_histogram</span>(<span class="at">colour =</span> <span class="st">"black"</span>) <span class="sc">+</span></span>
+<span id="cb11-7"><a href="#cb11-7" aria-hidden="true" tabindex="-1"></a>  <span class="fu">facet_wrap</span>(<span class="sc">~</span> GENDER) <span class="sc">+</span></span>
+<span id="cb11-8"><a href="#cb11-8" aria-hidden="true" tabindex="-1"></a>  <span class="fu">guides</span>(<span class="at">fill =</span> <span class="cn">FALSE</span>) <span class="sc">+</span>  </span>
+<span id="cb11-9"><a href="#cb11-9" aria-hidden="true" tabindex="-1"></a>  <span class="fu">theme_bw</span>()</span></code><button title="Copy to Clipboard" class="code-copy-button"><i class="bi"></i></button></pre></div>
+</details>
 <div class="cell-output-display">
-<p><img src="In-class_Ex01_files/figure-html/unnamed-chunk-8-1.png" class="img-fluid" width="672"></p>
+<p><img src="In-class_Ex01_files/figure-html/unnamed-chunk-9-1.png" class="img-fluid" width="672"></p>
 </div>
 </div>
 </section>
@@ -426,35 +440,41 @@ of ggplot2 3.3.4.</code></pre>
 <section id="the-original-design-3" class="level2">
 <h2 class="anchored" data-anchor-id="the-original-design-3">The original design</h2>
 <div class="cell">
-<div class="sourceCode cell-code" id="cb20"><pre class="sourceCode r code-with-copy"><code class="sourceCode r"><span id="cb20-1"><a href="#cb20-1" aria-hidden="true" tabindex="-1"></a><span class="fu">ggplot</span>(<span class="at">data=</span>exam_data, </span>
-<span id="cb20-2"><a href="#cb20-2" aria-hidden="true" tabindex="-1"></a>       <span class="fu">aes</span>(<span class="at">x=</span> MATHS, </span>
-<span id="cb20-3"><a href="#cb20-3" aria-hidden="true" tabindex="-1"></a>           <span class="at">y=</span>ENGLISH)) <span class="sc">+</span></span>
-<span id="cb20-4"><a href="#cb20-4" aria-hidden="true" tabindex="-1"></a>  <span class="fu">geom_point</span>(<span class="at">size =</span> <span class="fl">0.8</span>) <span class="sc">+</span></span>
-<span id="cb20-5"><a href="#cb20-5" aria-hidden="true" tabindex="-1"></a>  <span class="fu">coord_cartesian</span>(<span class="at">xlim=</span><span class="fu">c</span>(<span class="dv">0</span>,<span class="dv">100</span>),</span>
-<span id="cb20-6"><a href="#cb20-6" aria-hidden="true" tabindex="-1"></a>                  <span class="at">ylim=</span><span class="fu">c</span>(<span class="dv">0</span>,<span class="dv">100</span>))</span></code><button title="Copy to Clipboard" class="code-copy-button"><i class="bi"></i></button></pre></div>
+<details>
+<summary>Code</summary>
+<div class="sourceCode cell-code" id="cb12"><pre class="sourceCode r code-with-copy"><code class="sourceCode r"><span id="cb12-1"><a href="#cb12-1" aria-hidden="true" tabindex="-1"></a><span class="fu">ggplot</span>(<span class="at">data=</span>exam_data, </span>
+<span id="cb12-2"><a href="#cb12-2" aria-hidden="true" tabindex="-1"></a>       <span class="fu">aes</span>(<span class="at">x=</span> MATHS, </span>
+<span id="cb12-3"><a href="#cb12-3" aria-hidden="true" tabindex="-1"></a>           <span class="at">y=</span>ENGLISH)) <span class="sc">+</span></span>
+<span id="cb12-4"><a href="#cb12-4" aria-hidden="true" tabindex="-1"></a>  <span class="fu">geom_point</span>(<span class="at">size =</span> <span class="fl">0.8</span>) <span class="sc">+</span></span>
+<span id="cb12-5"><a href="#cb12-5" aria-hidden="true" tabindex="-1"></a>  <span class="fu">coord_cartesian</span>(<span class="at">xlim=</span><span class="fu">c</span>(<span class="dv">0</span>,<span class="dv">100</span>),</span>
+<span id="cb12-6"><a href="#cb12-6" aria-hidden="true" tabindex="-1"></a>                  <span class="at">ylim=</span><span class="fu">c</span>(<span class="dv">0</span>,<span class="dv">100</span>))</span></code><button title="Copy to Clipboard" class="code-copy-button"><i class="bi"></i></button></pre></div>
+</details>
 <div class="cell-output-display">
-<p><img src="In-class_Ex01_files/figure-html/unnamed-chunk-9-1.png" class="img-fluid" width="672"></p>
+<p><img src="In-class_Ex01_files/figure-html/unnamed-chunk-10-1.png" class="img-fluid" width="672"></p>
 </div>
 </div>
 </section>
 <section id="the-makeover-design-3" class="level2">
 <h2 class="anchored" data-anchor-id="the-makeover-design-3">The makeover design</h2>
 <div class="cell">
-<div class="sourceCode cell-code" id="cb21"><pre class="sourceCode r code-with-copy"><code class="sourceCode r"><span id="cb21-1"><a href="#cb21-1" aria-hidden="true" tabindex="-1"></a><span class="fu">ggplot</span>(<span class="at">data=</span>exam_data, </span>
-<span id="cb21-2"><a href="#cb21-2" aria-hidden="true" tabindex="-1"></a>       <span class="fu">aes</span>(<span class="at">x=</span>MATHS, <span class="at">y=</span>ENGLISH)) <span class="sc">+</span></span>
-<span id="cb21-3"><a href="#cb21-3" aria-hidden="true" tabindex="-1"></a>  <span class="fu">geom_point</span>() <span class="sc">+</span></span>
-<span id="cb21-4"><a href="#cb21-4" aria-hidden="true" tabindex="-1"></a>  <span class="fu">coord_cartesian</span>(<span class="at">xlim=</span><span class="fu">c</span>(<span class="dv">0</span>,<span class="dv">100</span>),</span>
-<span id="cb21-5"><a href="#cb21-5" aria-hidden="true" tabindex="-1"></a>                  <span class="at">ylim=</span><span class="fu">c</span>(<span class="dv">0</span>,<span class="dv">100</span>)) <span class="sc">+</span></span>
-<span id="cb21-6"><a href="#cb21-6" aria-hidden="true" tabindex="-1"></a>  <span class="fu">geom_hline</span>(<span class="at">yintercept=</span><span class="dv">50</span>,</span>
-<span id="cb21-7"><a href="#cb21-7" aria-hidden="true" tabindex="-1"></a>             <span class="at">linetype=</span><span class="st">"dashed"</span>,</span>
-<span id="cb21-8"><a href="#cb21-8" aria-hidden="true" tabindex="-1"></a>             <span class="at">color=</span><span class="st">"grey60"</span>,</span>
-<span id="cb21-9"><a href="#cb21-9" aria-hidden="true" tabindex="-1"></a>             <span class="at">size=</span><span class="dv">1</span>) <span class="sc">+</span> </span>
-<span id="cb21-10"><a href="#cb21-10" aria-hidden="true" tabindex="-1"></a>  <span class="fu">geom_vline</span>(<span class="at">xintercept=</span><span class="dv">50</span>, </span>
-<span id="cb21-11"><a href="#cb21-11" aria-hidden="true" tabindex="-1"></a>             <span class="at">linetype=</span><span class="st">"dashed"</span>,</span>
-<span id="cb21-12"><a href="#cb21-12" aria-hidden="true" tabindex="-1"></a>             <span class="at">color=</span><span class="st">"grey60"</span>,</span>
-<span id="cb21-13"><a href="#cb21-13" aria-hidden="true" tabindex="-1"></a>             <span class="at">size=</span><span class="dv">1</span>)</span></code><button title="Copy to Clipboard" class="code-copy-button"><i class="bi"></i></button></pre></div>
+<details>
+<summary>Code</summary>
+<div class="sourceCode cell-code" id="cb13"><pre class="sourceCode r code-with-copy"><code class="sourceCode r"><span id="cb13-1"><a href="#cb13-1" aria-hidden="true" tabindex="-1"></a><span class="fu">ggplot</span>(<span class="at">data=</span>exam_data, </span>
+<span id="cb13-2"><a href="#cb13-2" aria-hidden="true" tabindex="-1"></a>       <span class="fu">aes</span>(<span class="at">x=</span>MATHS, <span class="at">y=</span>ENGLISH)) <span class="sc">+</span></span>
+<span id="cb13-3"><a href="#cb13-3" aria-hidden="true" tabindex="-1"></a>  <span class="fu">geom_point</span>() <span class="sc">+</span></span>
+<span id="cb13-4"><a href="#cb13-4" aria-hidden="true" tabindex="-1"></a>  <span class="fu">coord_cartesian</span>(<span class="at">xlim=</span><span class="fu">c</span>(<span class="dv">0</span>,<span class="dv">100</span>),</span>
+<span id="cb13-5"><a href="#cb13-5" aria-hidden="true" tabindex="-1"></a>                  <span class="at">ylim=</span><span class="fu">c</span>(<span class="dv">0</span>,<span class="dv">100</span>)) <span class="sc">+</span></span>
+<span id="cb13-6"><a href="#cb13-6" aria-hidden="true" tabindex="-1"></a>  <span class="fu">geom_hline</span>(<span class="at">yintercept=</span><span class="dv">50</span>,</span>
+<span id="cb13-7"><a href="#cb13-7" aria-hidden="true" tabindex="-1"></a>             <span class="at">linetype=</span><span class="st">"dashed"</span>,</span>
+<span id="cb13-8"><a href="#cb13-8" aria-hidden="true" tabindex="-1"></a>             <span class="at">color=</span><span class="st">"grey60"</span>,</span>
+<span id="cb13-9"><a href="#cb13-9" aria-hidden="true" tabindex="-1"></a>             <span class="at">size=</span><span class="dv">1</span>) <span class="sc">+</span> </span>
+<span id="cb13-10"><a href="#cb13-10" aria-hidden="true" tabindex="-1"></a>  <span class="fu">geom_vline</span>(<span class="at">xintercept=</span><span class="dv">50</span>, </span>
+<span id="cb13-11"><a href="#cb13-11" aria-hidden="true" tabindex="-1"></a>             <span class="at">linetype=</span><span class="st">"dashed"</span>,</span>
+<span id="cb13-12"><a href="#cb13-12" aria-hidden="true" tabindex="-1"></a>             <span class="at">color=</span><span class="st">"grey60"</span>,</span>
+<span id="cb13-13"><a href="#cb13-13" aria-hidden="true" tabindex="-1"></a>             <span class="at">size=</span><span class="dv">1</span>)</span></code><button title="Copy to Clipboard" class="code-copy-button"><i class="bi"></i></button></pre></div>
+</details>
 <div class="cell-output-display">
-<p><img src="In-class_Ex01_files/figure-html/unnamed-chunk-10-1.png" class="img-fluid" width="672"></p>
+<p><img src="In-class_Ex01_files/figure-html/unnamed-chunk-11-1.png" class="img-fluid" width="672"></p>
 </div>
 </div>
 

diff --git a/_site/index.html b/_site/index.html
@@ -80,13 +80,24 @@ ul.task-list li input[type="checkbox"] {
           <div class="collapse navbar-collapse" id="navbarCollapse">
             <ul class="navbar-nav navbar-nav-scroll me-auto">
   <li class="nav-item dropdown ">
-    <a class="nav-link dropdown-toggle" href="#" id="nav-menu-hands-on-exercise" role="button" data-bs-toggle="dropdown" aria-expanded="false">
- <span class="menu-text">Hands-on Exercise</span>
+    <a class="nav-link dropdown-toggle" href="#" id="nav-menu-hands-on-exercises" role="button" data-bs-toggle="dropdown" aria-expanded="false">
+ <span class="menu-text">Hands-on Exercises</span>
     </a>
-    <ul class="dropdown-menu" aria-labelledby="nav-menu-hands-on-exercise">    
+    <ul class="dropdown-menu" aria-labelledby="nav-menu-hands-on-exercises">    
         <li>
     <a class="dropdown-item" href="./Hands-on_Ex/Hands-on_Ex01/Hands-on_Ex01.html">
  <span class="dropdown-text">Hands-on Exercise 1</span></a>
+  </li>  
+    </ul>
+  </li>
+  <li class="nav-item dropdown ">
+    <a class="nav-link dropdown-toggle" href="#" id="nav-menu-in-class-exercises" role="button" data-bs-toggle="dropdown" aria-expanded="false">
+ <span class="menu-text">In-class Exercises</span>
+    </a>
+    <ul class="dropdown-menu" aria-labelledby="nav-menu-in-class-exercises">    
+        <li>
+    <a class="dropdown-item" href="./In-class_Ex/In-class_Ex01/In-class_Ex01.html">
+ <span class="dropdown-text">In-class Exercise 1</span></a>
   </li>  
     </ul>
   </li>
@@ -134,6 +145,12 @@ ul.task-list li input[type="checkbox"] {
 </header>
 
 <p>Welcome to <strong>ISSS608 Visual Analytics and Applications</strong>. In this website, you will find my <del>sweat and blood</del> coursework prepared for this course.</p>
+<div class="quarto-figure quarto-figure-center">
+<figure class="figure">
+<p><img src="index_photo.jpg" class="img-fluid figure-img"></p>
+<p></p><figcaption class="figure-caption"><strong>“If data is the new gold, then visual analytics is the refiner’s fire” - Anon</strong></figcaption><p></p>
+</figure>
+</div>
 
 
 
